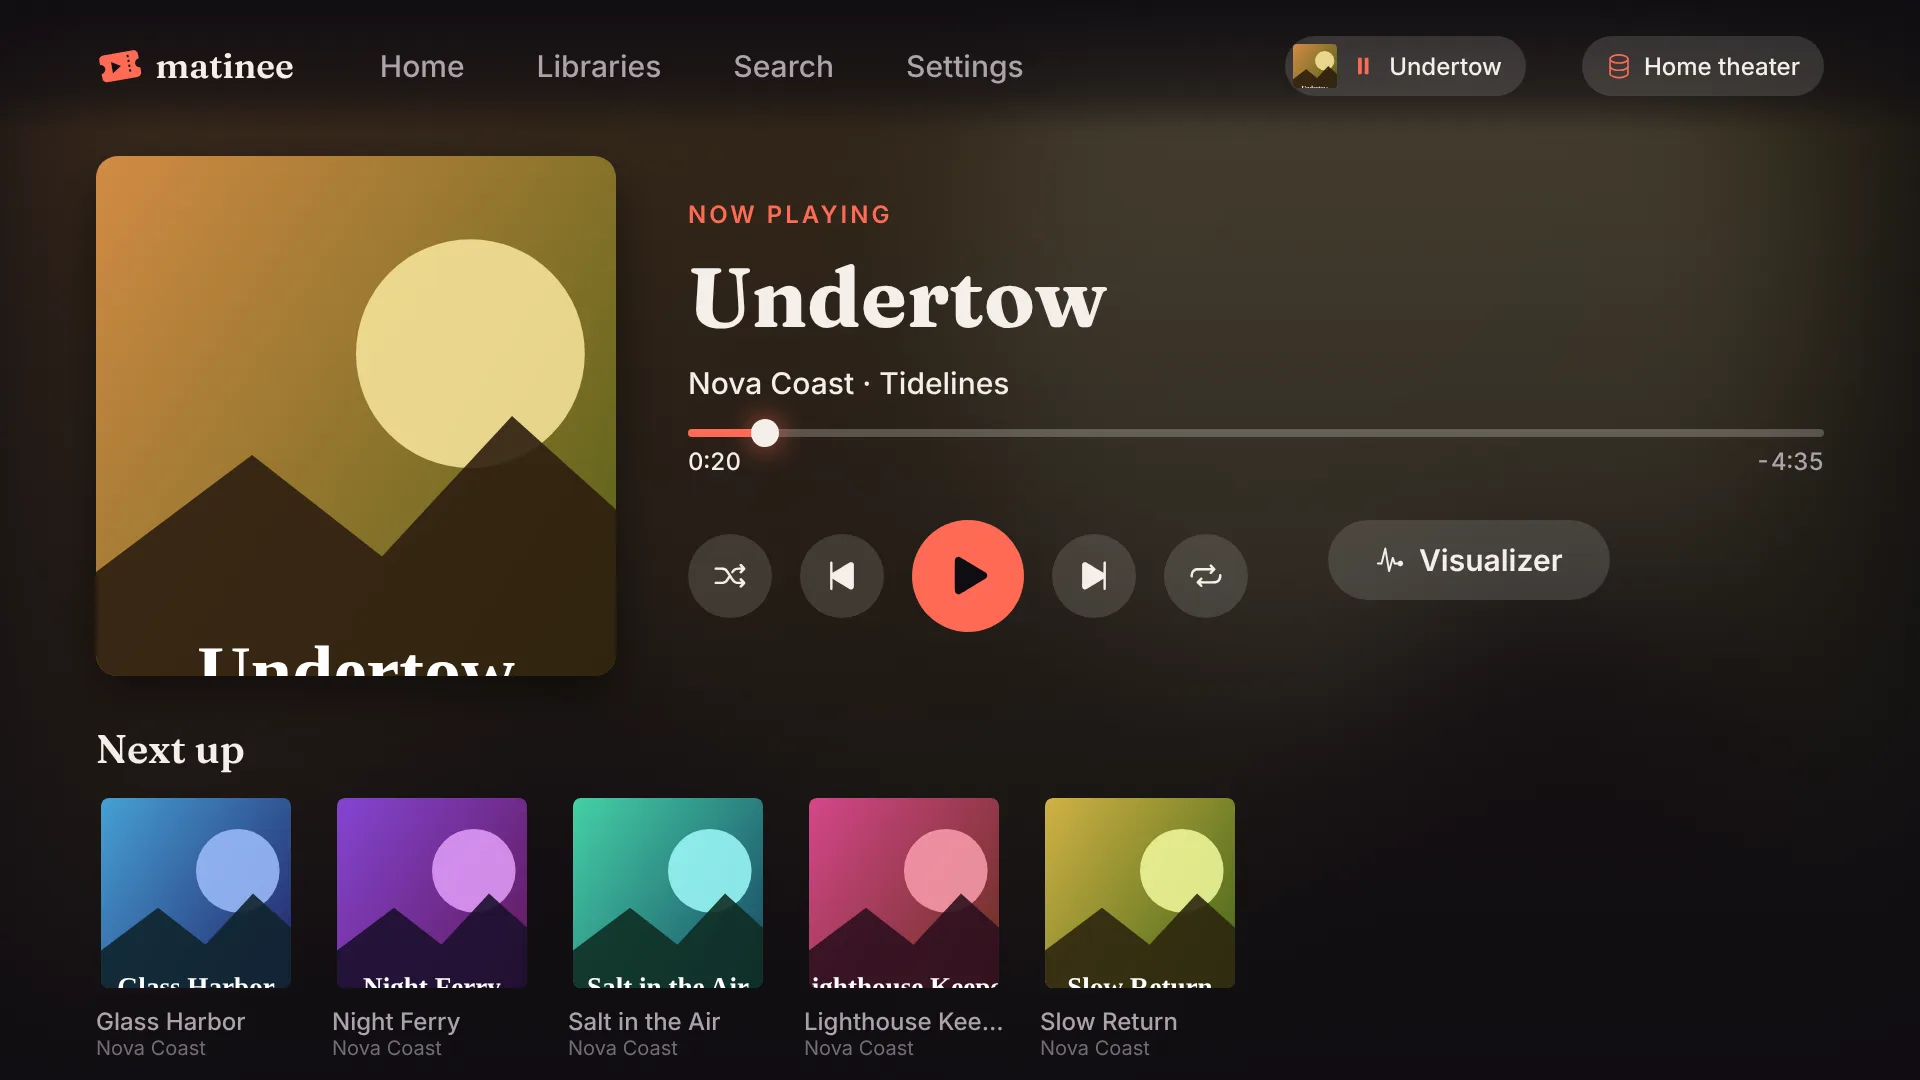
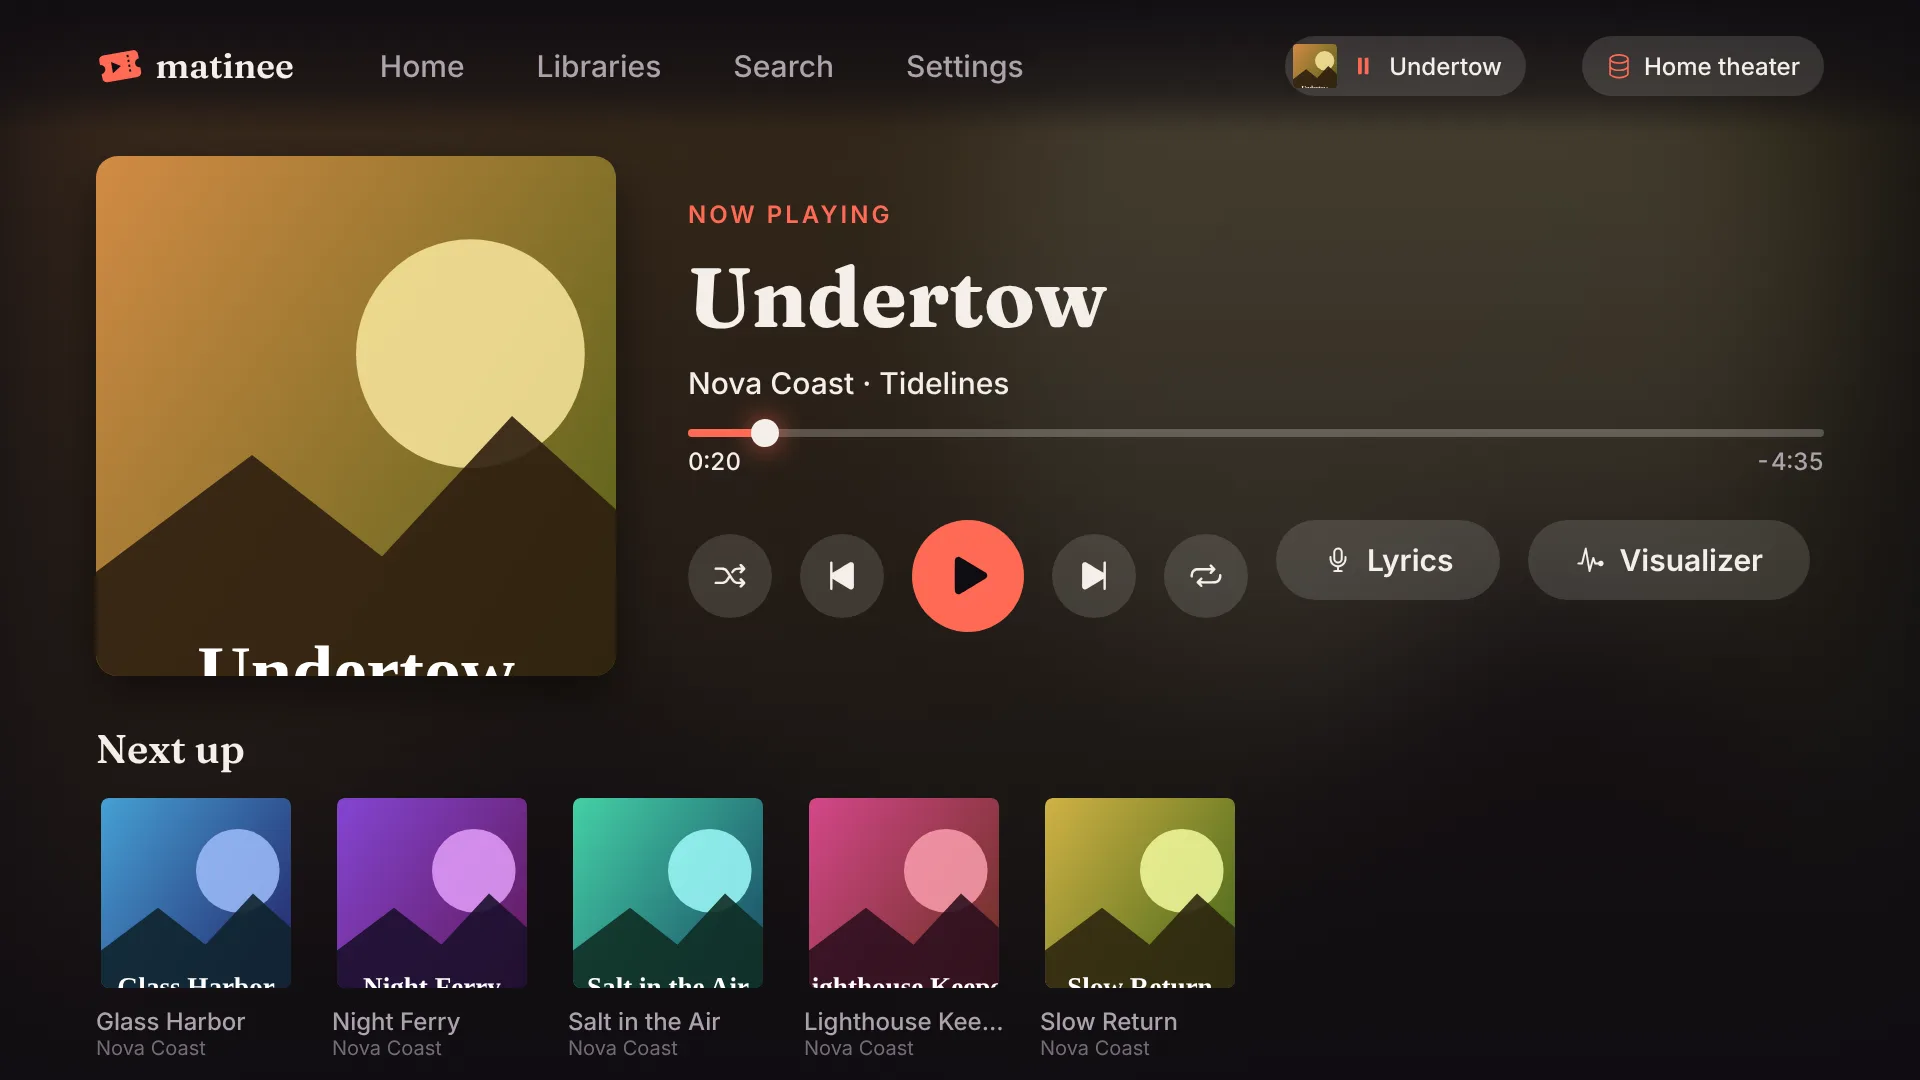
Guide: lyrics in the music player, on phones and TVs, and looking them up online

Changed region(s): [[0.6562, 0.4583, 0.9375, 0.5806]]

diff --git a/docs/guide/watching/music.md b/docs/guide/watching/music.md
@@ -1,6 +1,6 @@
 ---
 title: Music
-description: Browse artists, albums and songs, make playlists, line up a queue, and keep music playing while you browse.
+description: Browse artists, albums and songs, make playlists, line up a queue, read along with lyrics, and keep music playing while you browse.
 sidebar:
   order: 7
 ---
@@ -35,6 +35,28 @@ Click the cover in the player (or the queue button beside the volume) for the fu
 ![The full player, with the queue beside the cover](../images/now-playing.webp)
 
 On a phone, the button at the top right switches between the cover and the queue.
+
+<!-- since: v0.1.13 -->
+## Lyrics
+
+The **Lyrics** button at the top of the full player shows the song's words instead of the queue (on a phone, instead of the cover). When the words are timed, they follow the song: the line being sung lights up and stays near the middle, and three dots fill in during a break. Click a line to play from there. Scroll to read ahead; after a few seconds the words catch up with the song again. Words without times just scroll.
+
+![The full player showing a song's words, the line being sung lit up](../images/lyrics.webp)
+
+Matinee looks for a song's words in these places, and uses the first timed ones it finds:
+
+1. A `.lrc` file next to the song with the same name, such as `01 Opening Credits.lrc` beside `01 Opening Credits.flac`. A `.txt` file with the same name works too, for words without times.
+2. The song's own tags. Most taggers can save lyrics into the file, timed or not.
+3. Online, if an admin turned it on (see below).
+
+If there are only untimed words, those show. A `.lrc` added later shows up within a few minutes, with no scan needed.
+
+### Looking up lyrics online
+
+An admin can turn on **Look up lyrics online** in **Settings → Content → Lyrics**. It's off until then. For songs without timed words of their own, the server then asks [LRCLIB](https://lrclib.net), a free, open lyrics database that needs no account. Your server asks it directly, and sends only each song's artist, title, album and length. What it finds is kept on the server, so each song is looked up once; a song it doesn't have is tried again after a week. Words from LRCLIB say so under them.
+
+![Settings → Content → Lyrics](../images/settings-lyrics.webp)
+<!-- /since -->
 
 ## Play next and Add to queue
 
@@ -79,6 +101,10 @@ The [phone apps](/docs/apps/phone-and-tv/) have the same library, album and arti
 From version 1.0.19 the phone apps have playlists too: the **Playlists** tab, **Add to playlist** in the menu of any song, album or artist (tap **⋯** or hold a song), and **Save as playlist** above the queue. On a playlist's page, **⋯** renames or deletes it, and each song's menu moves it up or down or removes it.
 <!-- /since -->
 
+<!-- since: v0.1.13 -->
+From version 1.0.24 the phone apps show lyrics too: tap the microphone at the top of the full player, and the words take the cover's place. Tap a line to play from there; tap the microphone again for the cover.
+<!-- /since -->
+
 <!-- since: v0.1.3 -->
 ## The visualizer
 
@@ -110,6 +136,12 @@ The music keeps playing while you browse. What's playing shows at the top of the
 From version 1.0.19 you can scrub through the song with the remote. Press up from the player's buttons to reach the bar under the song's name; a dot shows on it. Then left and right go back or ahead 10 seconds (hold to go faster), and a swipe on the Siri Remote does the same. Presses in a row add up: the time under the bar shows where you'll land, and the song moves there once you stop pressing. Select on the bar plays or pauses, and down goes back to the buttons. The rewind and fast forward buttons on remotes that have them skip 10 seconds from anywhere in the player. This works on Apple TV, Android TV, and Samsung and LG TVs.
 
 ![Scrubbing through a song on a TV](../images/app-tv-music-scrub.webp)
+<!-- /since -->
+
+<!-- since: v0.1.13 -->
+From version 1.0.24, **Lyrics** in the player shows the song's words across the screen beside its cover, the line being sung lit up. Play/pause or select pauses, left and right go back or ahead 10 seconds, and back returns to the player.
+
+![A song's words on a TV](../images/app-tv-lyrics.webp)
 <!-- /since -->
 
 **Visualizer** in the player opens the visualizer; left and right on the remote change its look, and play/pause or select pauses.
